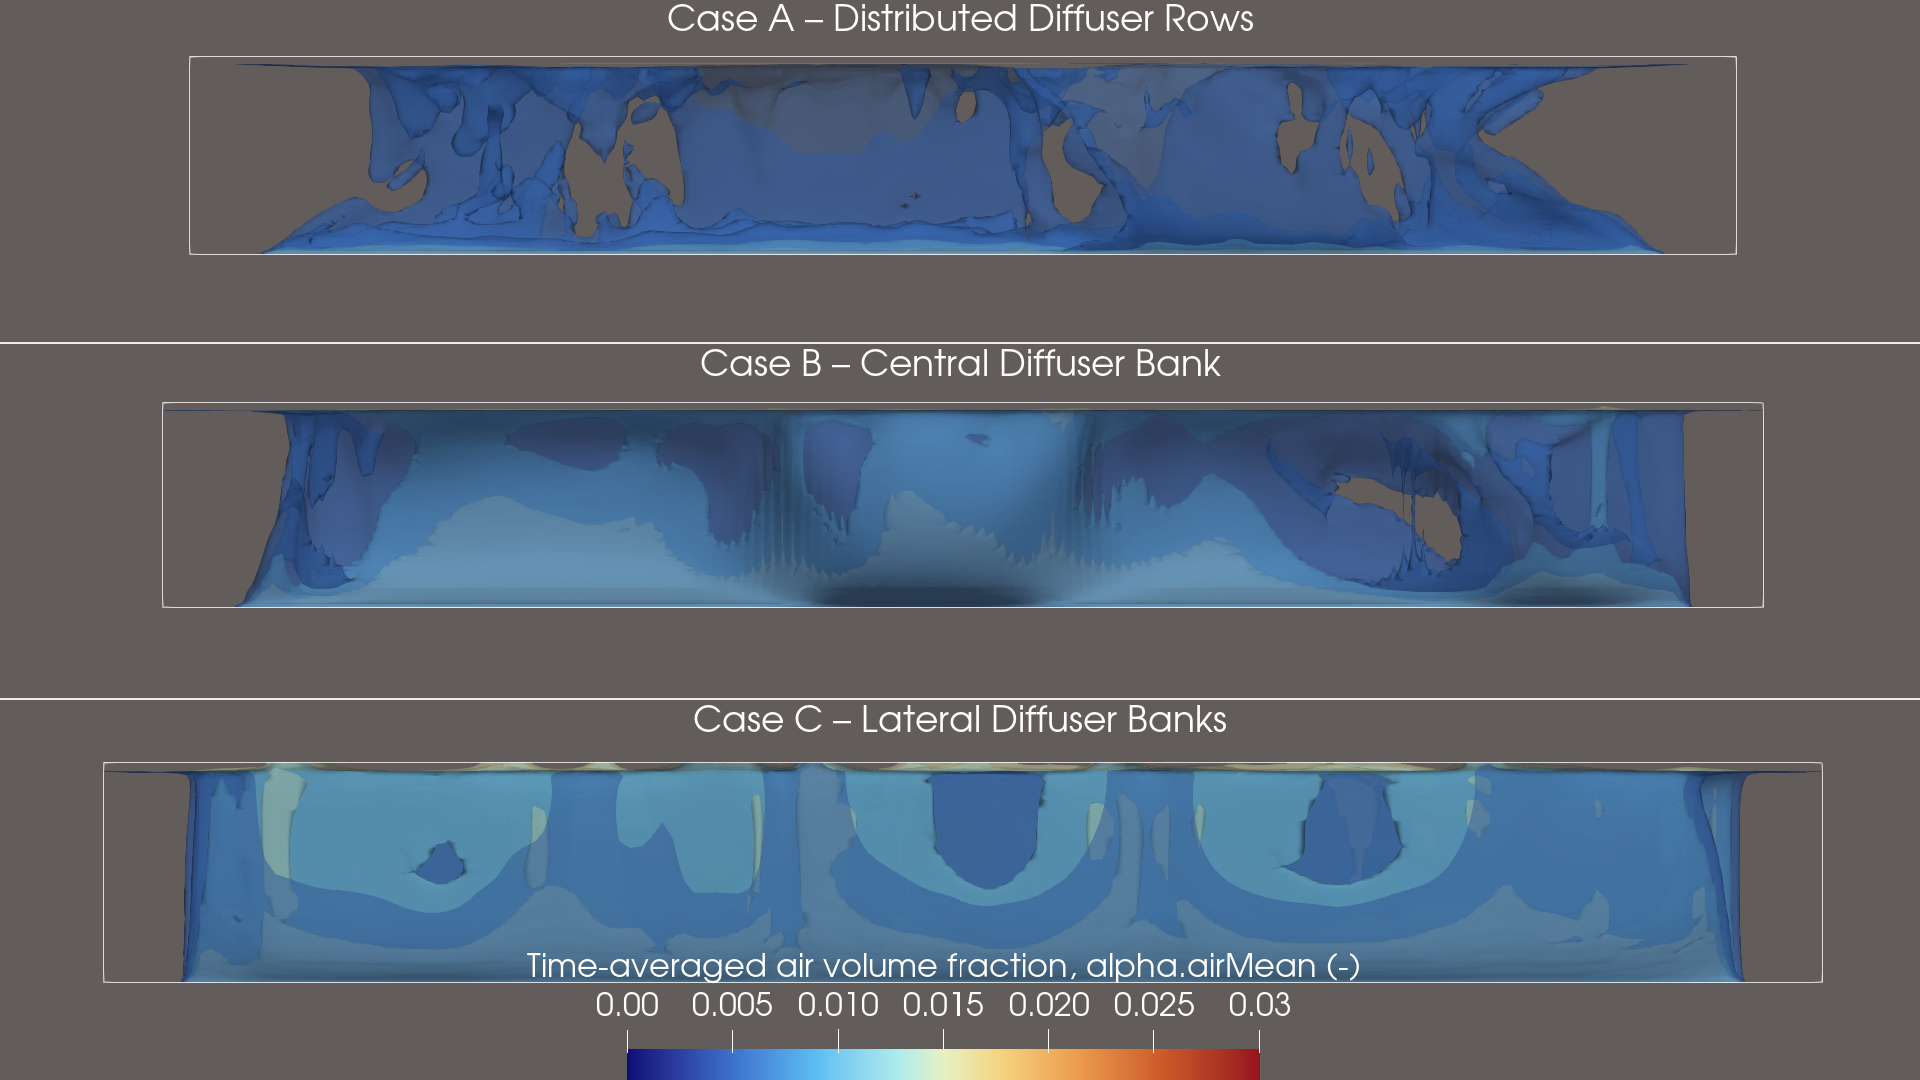
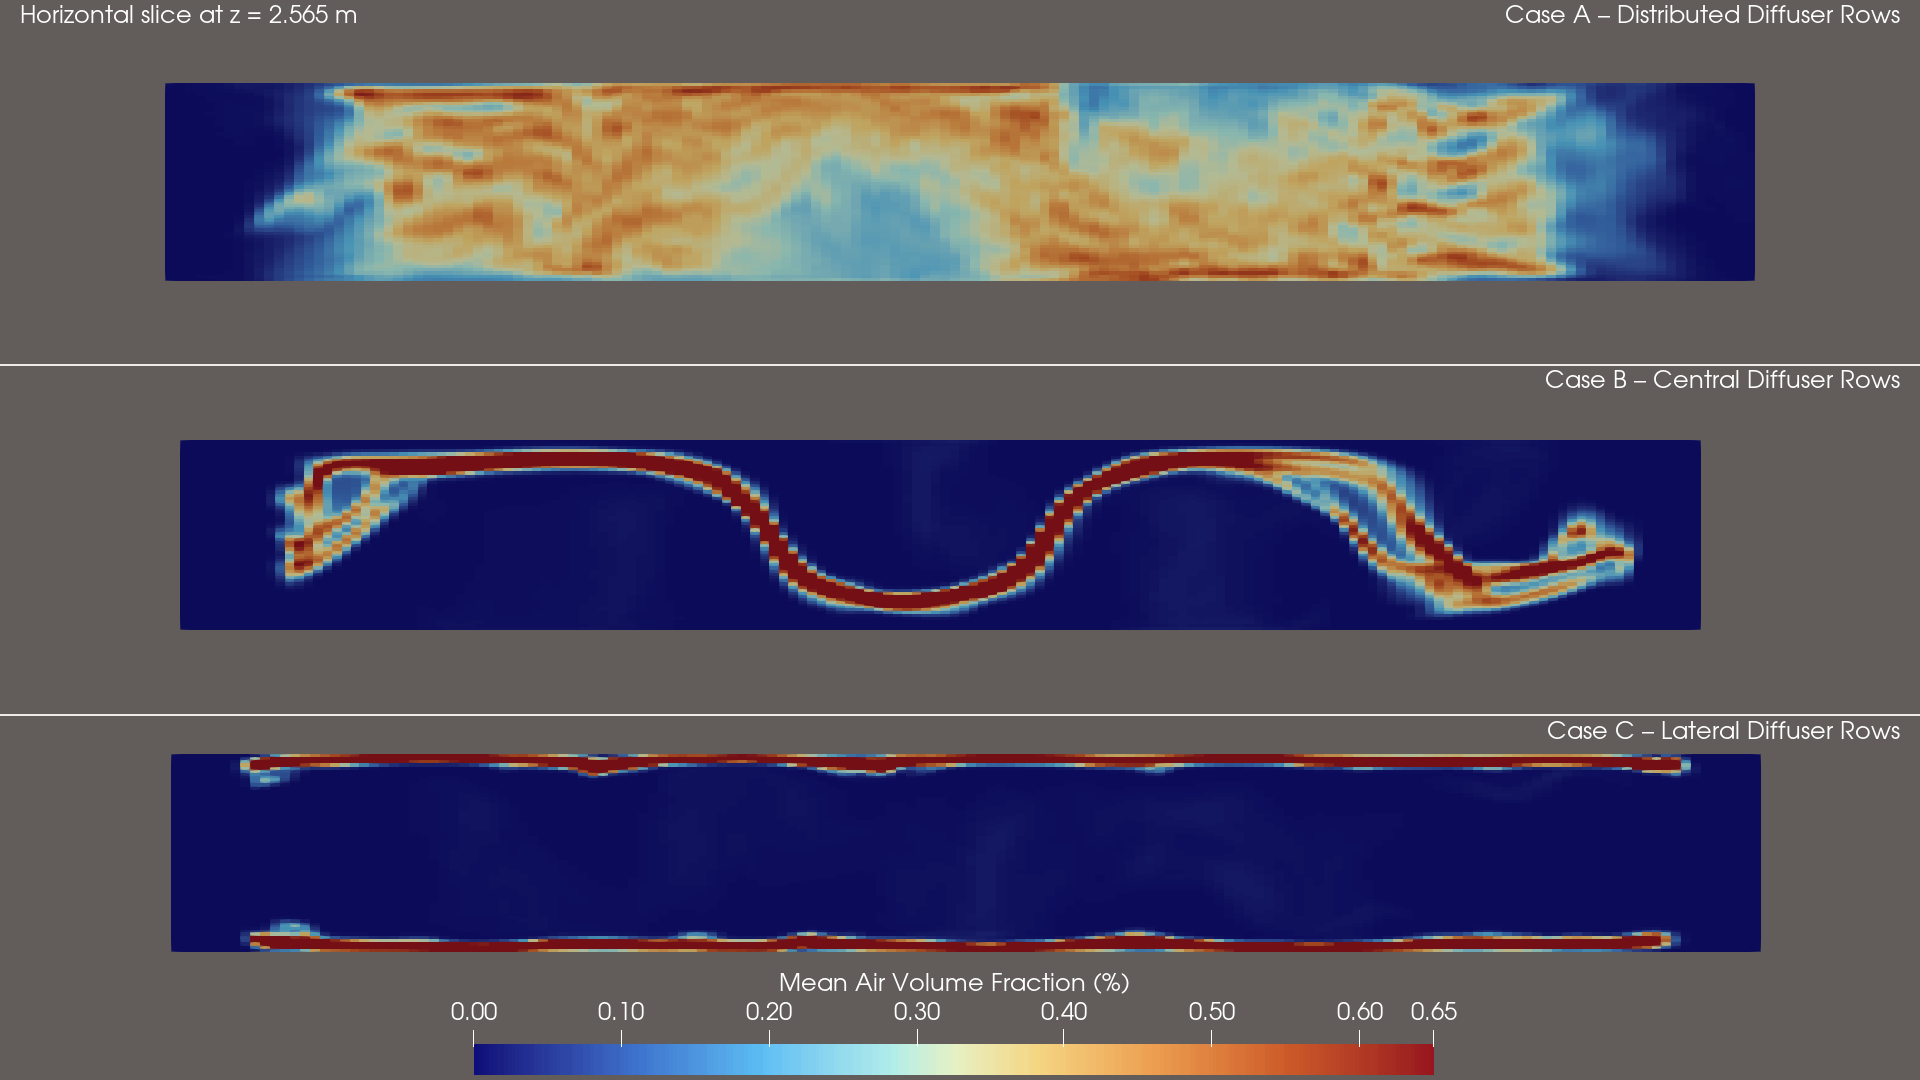
Update Project 2 Details and Images

diff --git a/index.html b/index.html
@@ -287,19 +287,19 @@
               aria-label="Aeration CFD project images">
               <div class="project-gallery-track">
                 <figure class="project-gallery-slide is-active"
-                  data-gallery-label="Flow patterns across diffuser layouts">
+                  data-gallery-label="Flow Patterns Across Diffuser Layouts">
                   <img src="assets/images/project-2-01.png"
                     alt="Flow patterns across wastewater aeration diffuser layouts" loading="lazy" decoding="async">
                 </figure>
-                <figure class="project-gallery-slide" data-gallery-label="Comparative diffuser configurations">
+                <figure class="project-gallery-slide" data-gallery-label="Diffuser Layout Configurations">
                   <img src="assets/images/project-2-02.png"
                     alt="Comparison of wastewater aeration diffuser configurations" loading="lazy" decoding="async">
                 </figure>
-                <figure class="project-gallery-slide" data-gallery-label="Time-averaged air distribution">
+                <figure class="project-gallery-slide" data-gallery-label="Mean Air Volume Fraction">
                   <img src="assets/images/project-2-03.png" alt="Time-averaged air distribution in an aeration tank"
                     loading="lazy" decoding="async">
                 </figure>
-                <figure class="project-gallery-slide" data-gallery-label="Biodegradable COD distribution">
+                <figure class="project-gallery-slide" data-gallery-label="Outlet Biodegradable Substrate COD">
                   <img src="assets/images/project-2-04.png"
                     alt="Biodegradable chemical oxygen demand distribution in an aeration tank" loading="lazy"
                     decoding="async">
